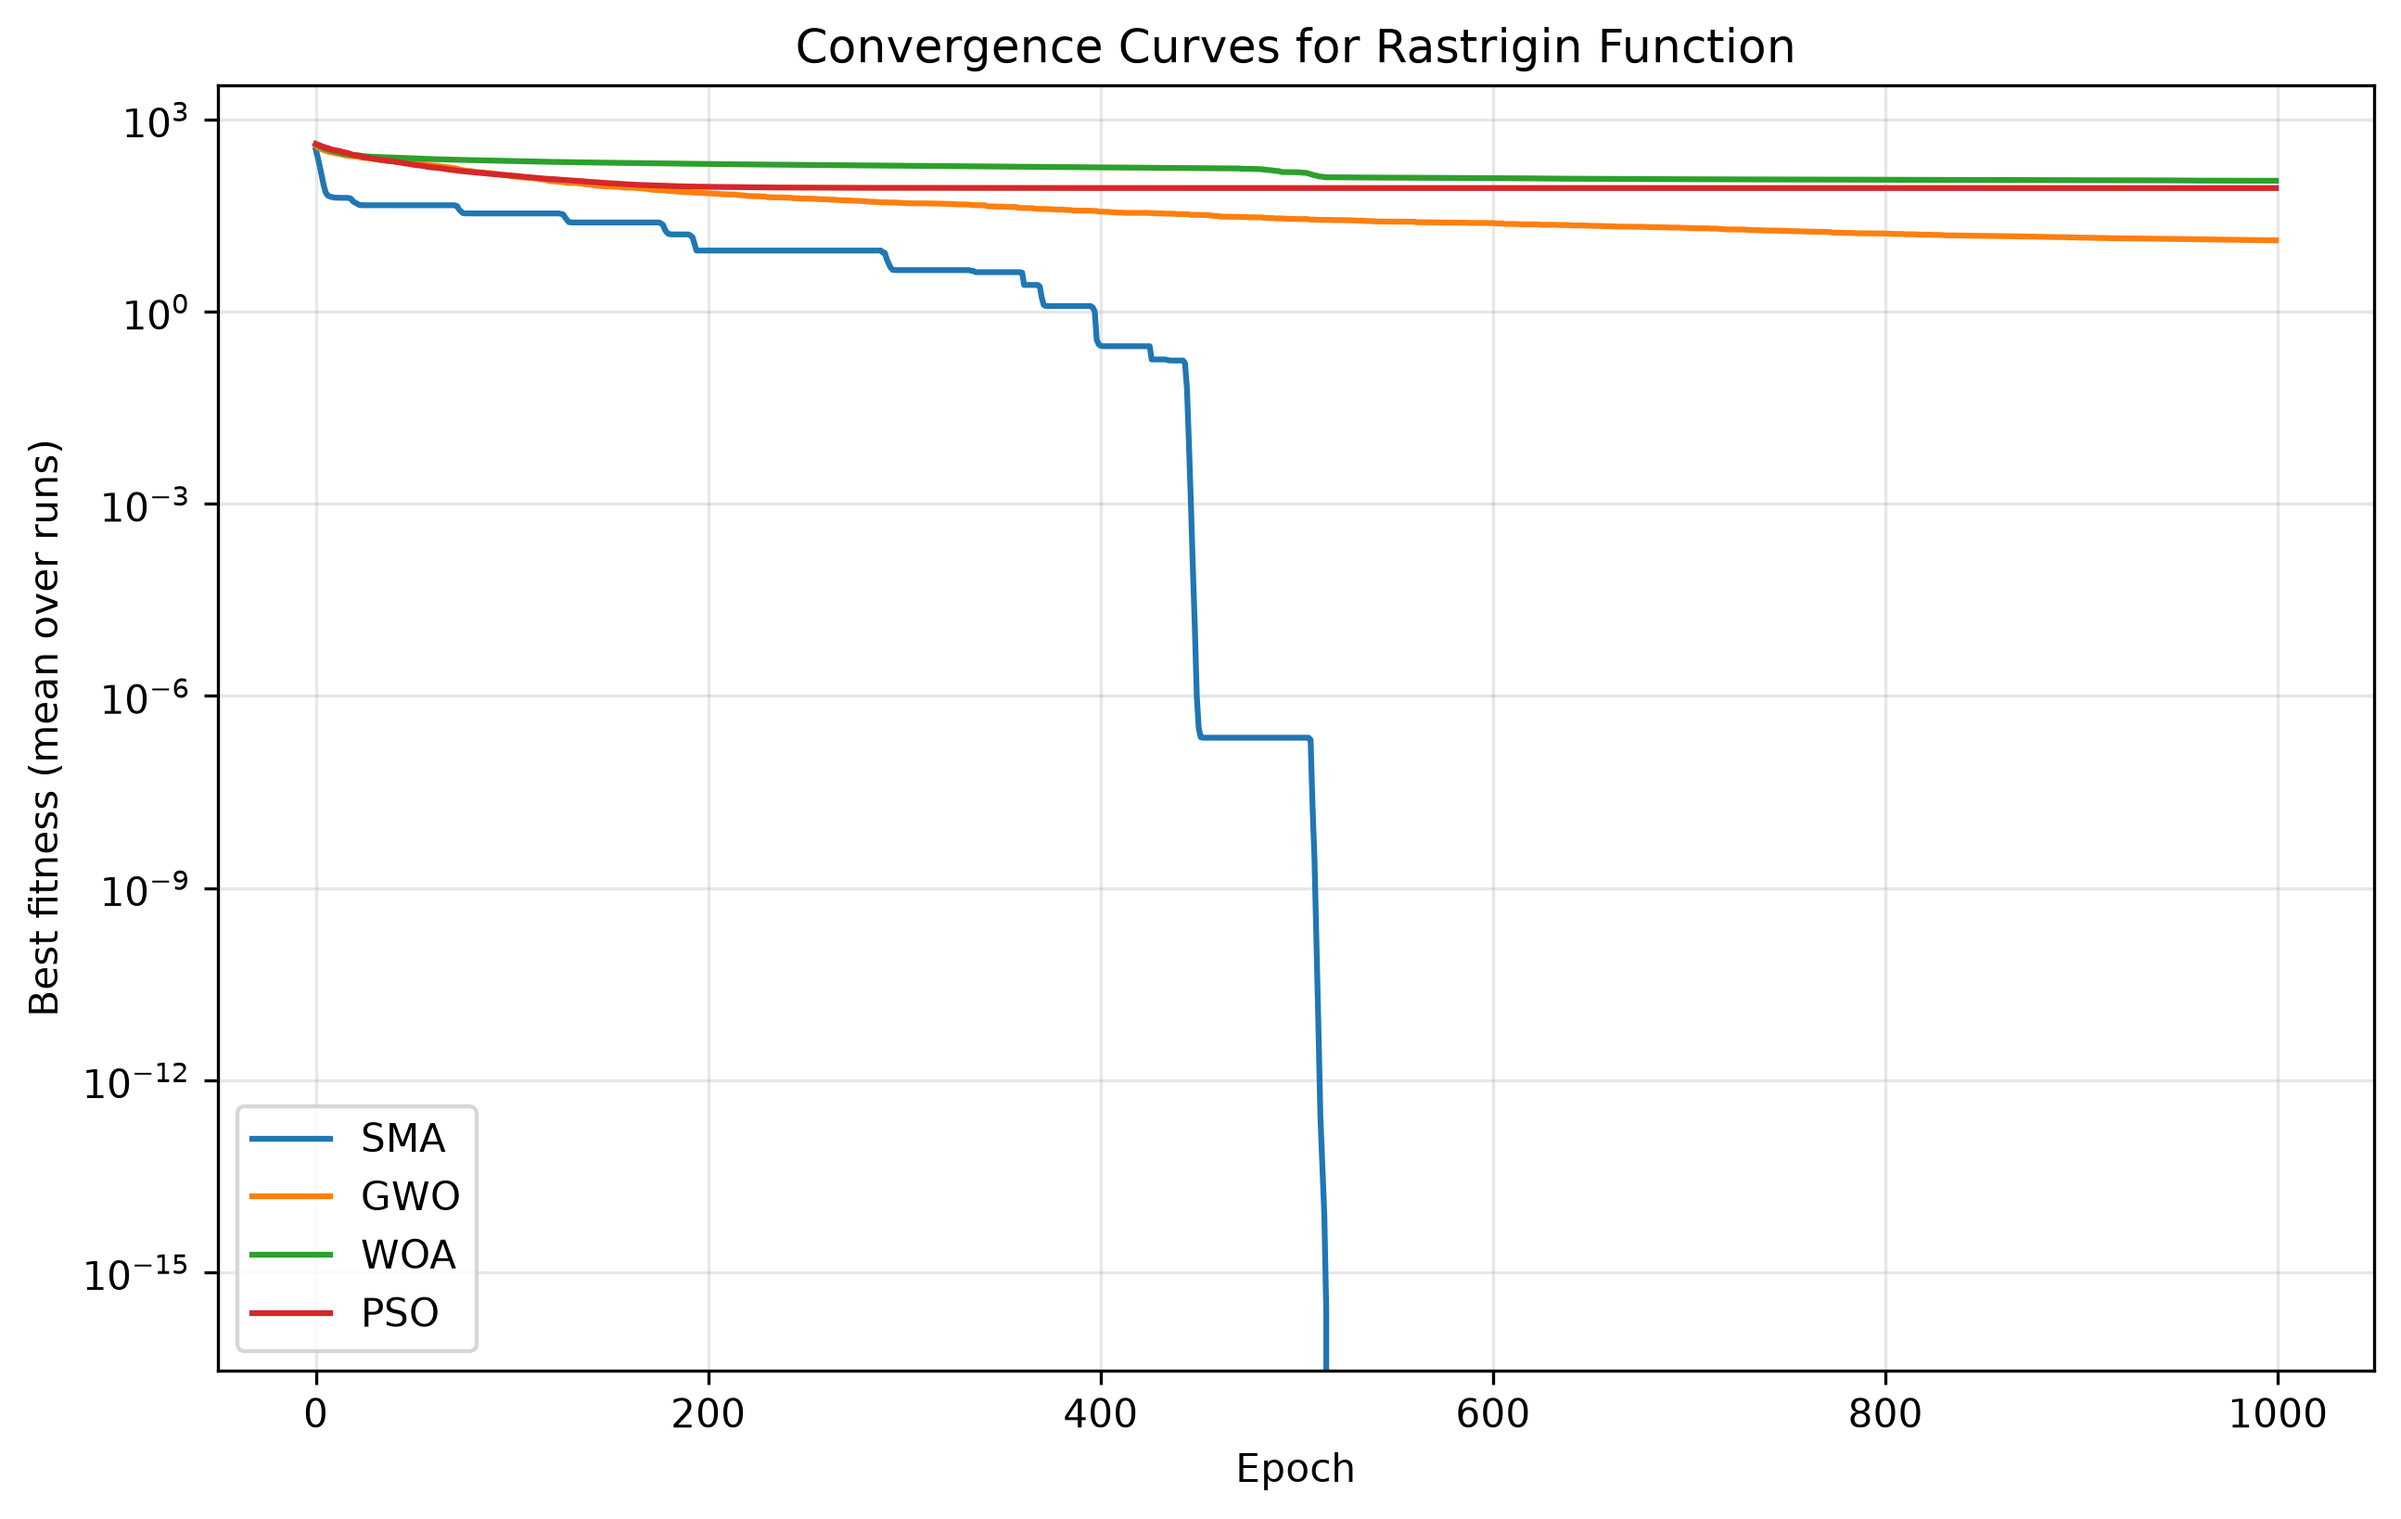
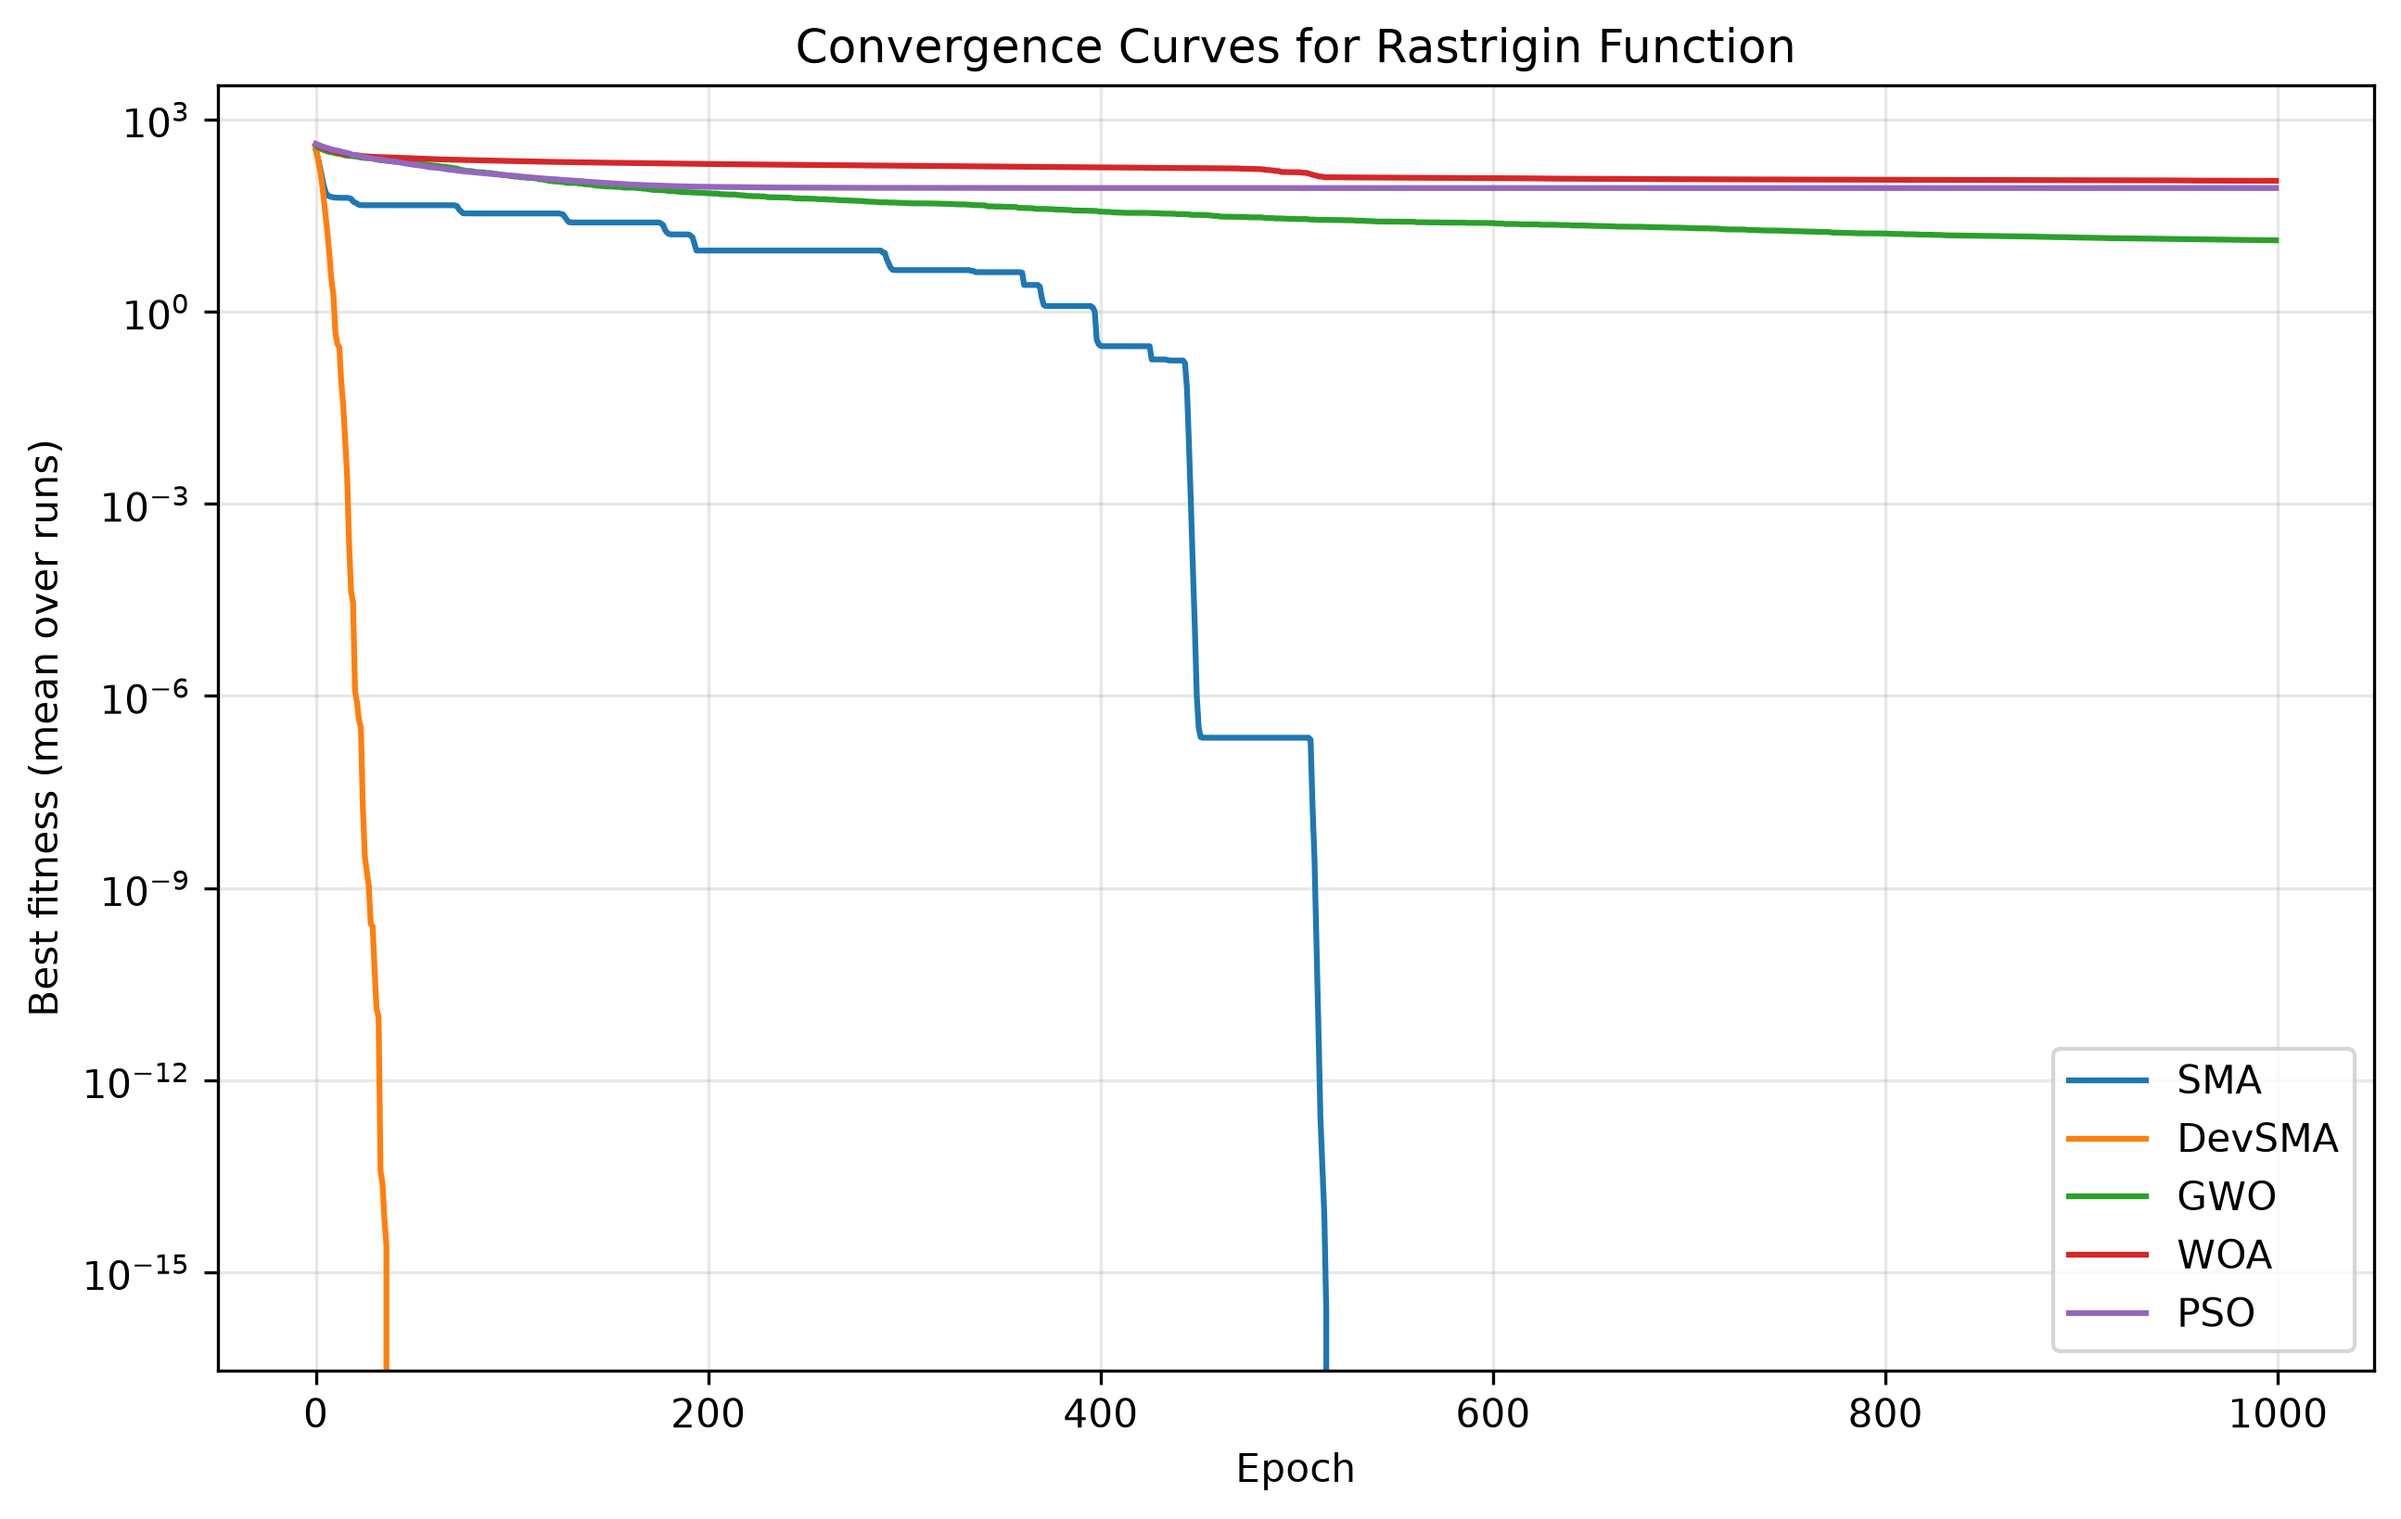
add devSMA to convergence curves

diff --git a/README.md b/README.md
@@ -1,0 +1,16 @@
+# Reproduction and extension of the results from *Slime mould algorithm: A new method for stochasstic optimization*
+
+by Sofie Appel
+
+## Abstract
+
+
+
+## Demos
+
+
+## Methodology
+
+## Reproduce
+
+## Key Findings
